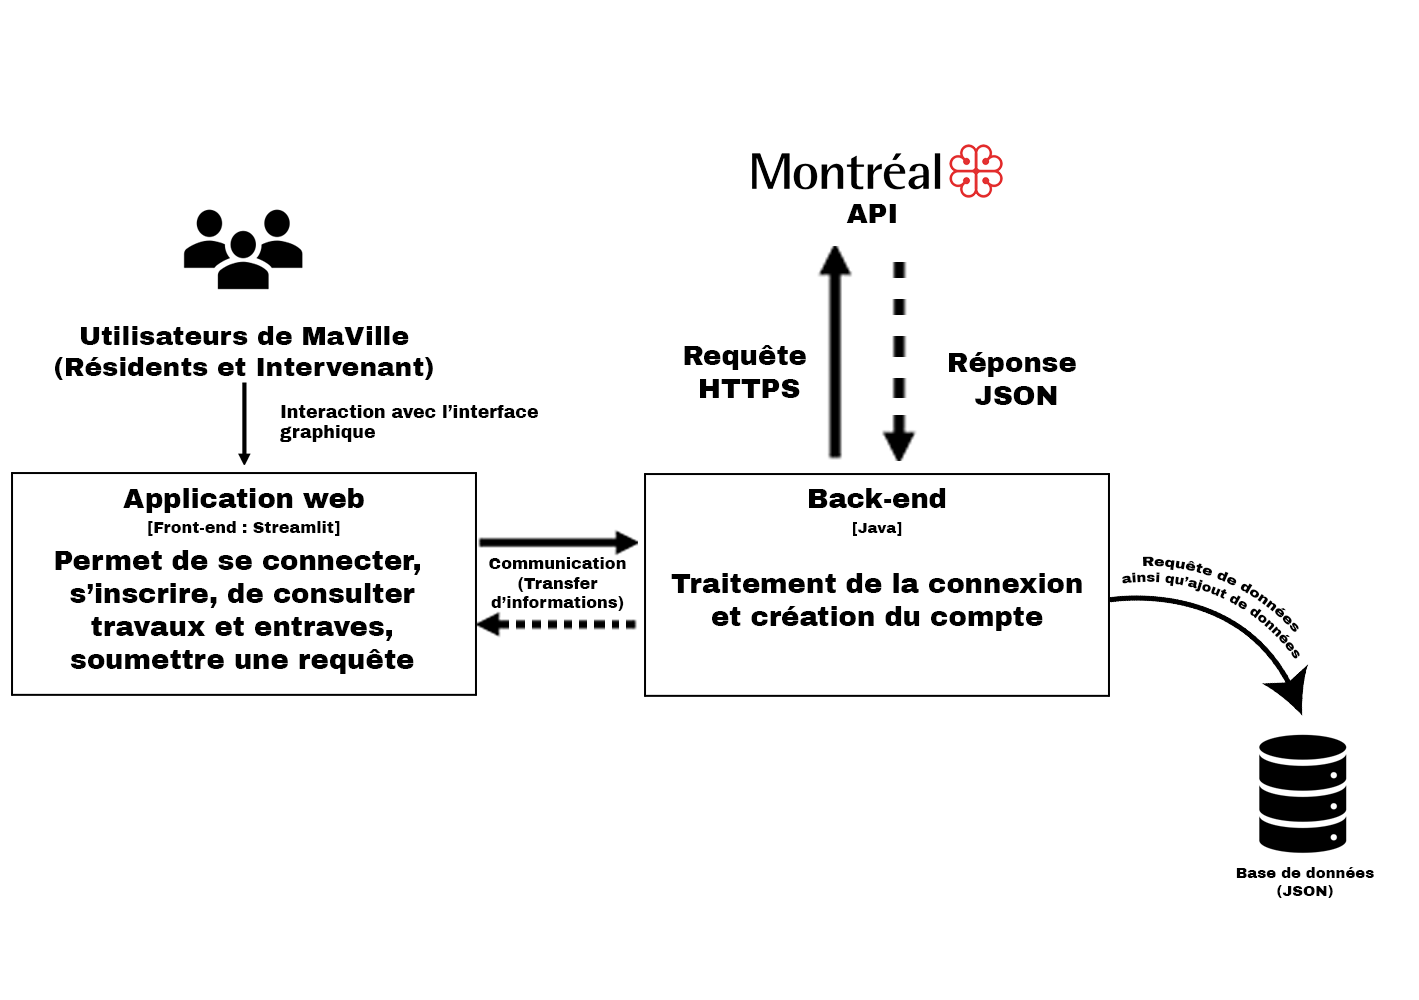
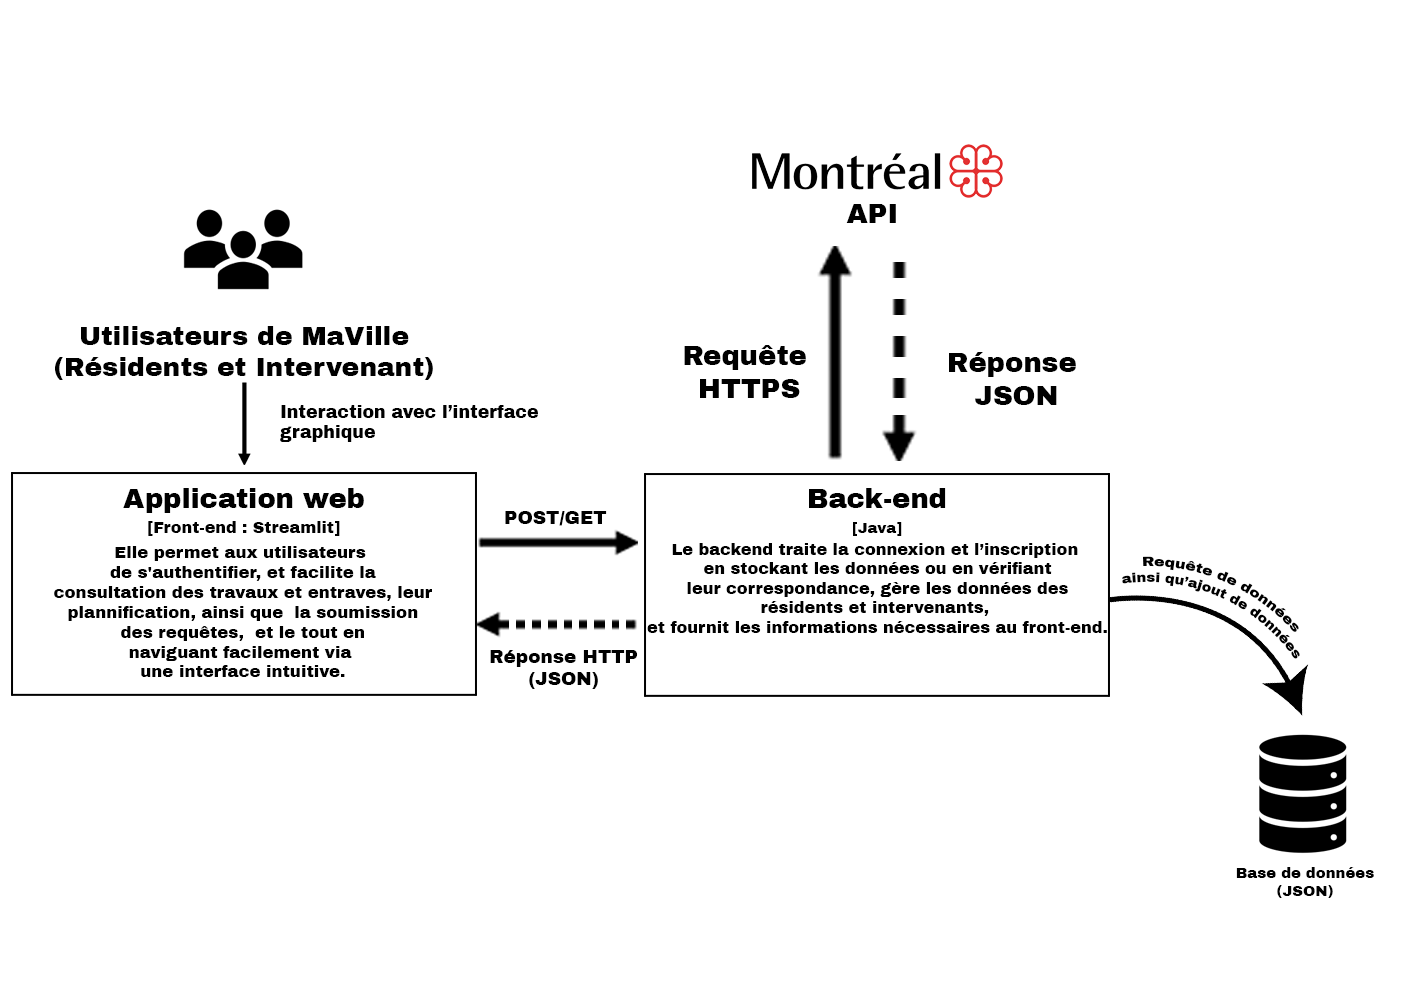
template updated

diff --git a/template.html b/template.html
@@ -532,7 +532,9 @@
         .glossary {
             font-size: 1.4em;
         }
-
+        img{
+            max-width: 100%;
+        }
         .preview-img {
             display: block;
             width: 600px;
@@ -555,6 +557,12 @@
             min-width: 600px;
             height: 100%;
             width: auto;
+            background-color: #d5d5d5;
+        }
+        .architecture-pic {
+            display: block;
+            height: 50%;
+            width: 80%;
             background-color: #d5d5d5;
         }
 
@@ -604,7 +612,7 @@
                     </div> 
                     <span>Discord: @youssef3344444</span>
                     <a href="mailto:prenom.nom@umontreal.ca">youssef.briki@umontreal.ca</a>
-                    <span class="member-role">Chargé du diagramme d'activite, GitHub et rapport</span>
+                    <span class="member-role">Chargé de l'implémentation et du GitHub</span>
                 </li>
                 <li class="member">
                     <div class="member-identification">
@@ -614,7 +622,7 @@
                     <span>Discord: @royann_
                     </span>
                     <a href="mailto:prenom.nom@umontreal.ca">royann.lee.brady.heriniina@umontreal.ca</a>
-                    <span class="member-role">Chargé de glossaire, scenarios et analyse</span>
+                    <span class="member-role">Chargé du diagramme de classes et révision des diagrammes d'activités</span>
                 </li>
                 <li class="member">
                     <div class="member-identification">
@@ -623,7 +631,7 @@
                     </div> 
                     <span>Discord: @jxlxl</span>
                     <a href="mailto:prenom.nom@umontreal.ca">mohamed.jalal.fatouaki@umontreal.ca</a>
-                    <span class="member-role">Chargé de cas d’utilisation et le prototype</span>
+                    <span class="member-role">Chargé des diagrammes de séquence, de la révision des cas d’utilisation, de l'architecture et du rapport</span>
                 </li>
             </ul>
         </div>
@@ -657,6 +665,15 @@
                             <li class="dash">Besoins matériels</li>
                             <li class="dash">Stockage</li>
                             <li class="dash">Intégration</li>
+                        </ul>
+                    </li>
+                    <li class="nav-item">
+                        <h3 class="nav-item-title"><a class="nav-item-title__link" href="#conception">Conception</a> </h3>
+                        <ul class="bare-list nav-item-details">
+                            <li class="dash">Architecture</li>
+                            <li class="dash">Diagramme de classes</li>
+                            <li class="dash">Diagrammes de séquence</li>
+                            <li class="dash">Choix du design</li>
                         </ul>
                     </li>
                     <li class="nav-item">
@@ -798,13 +815,13 @@
                 </ul>
                 <h3 class="subsection-title">Cas d'utilisation</h3>
                 <div class="use-case">
-                    <img class="use-case-diagram" src="Diagrammes/Use_Case_Diagram1.svg" alt="Diagramme de cas d'utilisation">
+                    <img class="use-case-diagram" src="Diagrammes/MaVille CU UPDATED.svg" alt="Diagramme de cas d'utilisation">
                     <p class="use-case-notes">
                         <em>
                             Notes à propos du diagramme <br>
-                            - Résident (Principal) : Le résident peut consulter les travaux en cours, soumettre des requêtes de travaux, définir ses préférences de notifications et d'horaires, ainsi que signaler des problèmes. <br>
-                            - Intervenant (Principal) : L'intervenant soumet des projets, modifie les informations de ceux-ci, et peut proposer des candidatures pour les requêtes de travaux. <br>
-                            - Administrateur (Secondaire) : L'administrateur vérifie la légitimité des intervenants et traite les problèmes signalés par les résidents. 
+                            - Résident : Le résident peut consulter les travaux en cours ou à venir, ainsi que les entraves, soumettre des requêtes de travaux, définir ses préférences de notifications et d'horaires, partager son avis et s'abonner à un projet en cours. <br>
+                            - Intervenant : L'intervenant soumet des projets, modifie les informations de ceux-ci, et peut proposer des candidatures pour les requêtes de travaux après les avoir consulté. <br>
+                            - Ville : La ville vérifie la légitimité des intervenants 
                         </em>
                     </p>
                                     </div>
@@ -2026,26 +2043,42 @@
                 </p>
             </div>
                         </section>
-
+            <section class="main-section">
+                <h2 id="conception" class="section-title">Conception</h2>
+                <h3 class="subsection-title">Architecture</h3>
+                <div class="architecture">
+                    <h4>TBD</h4>
+                    <img class="architecture-pic" src="Diagrammes/2255.png" alt="Architecture de MaVille">
+                </div>
+                <h3 class="subsection-title">Diagramme de Classes</h3>
+                <div class="classes">
+                    <h4>TBD</h4>
+                    <img class="classes-pics" src="Diagrammes/Class Diagram1.svg" alt="Diagramme de classes de MaVille">
+                </div>
+                <h3 class="subsection-title">Diagrammes de séquences</h3>
+                <div class="architecture">
+                    <h4>Consulter les entraves</h4>
+                    <img class="sequences-pics" src="Diagrammes/Entraves.svg" alt="Diagramme de séquence pour consulter les entraves">
+                </div>
+                <div class="architecture">
+                    <h4>Soumettre une requête de travail</h4>
+                    <img class="sequences-pics" src="Diagrammes/Soumettre.svg" alt="Diagramme de séquence pour soumettre une requête de travail">
+                </div>
+                <div class="architecture">
+                    <h4>Consulter la liste des requêtes de travail</h4>
+                    <img class="sequences-pics" src="Diagrammes/Consulter.svg" alt="Diagramme de séquence pour consulter les entraves">
+                </div>
+                <h3 class="subsection-title">Choix de design</h3>
+                <p>TBD</p>
+            </section>
             <section class="main-section">
                 <h2 id="prototype" class="section-title">Prototype</h2>
                 <p>
-                    Les données du résident sont : email: resident1@gmail.com password : maville2024 
-<br>Les données de l'intervenant sont : email : intervenant1@gmail.com password : ameliore2024@<br>
-
+                    À UPDATE !!!!
                     <em>
-                        Pour exécuter le prototype, vous devez l'avoir préalablement cloné localement sur votre machine. 
-                        Si ce n'est pas le cas, vous pouvez cloner le dépôt GitHub en utilisant l'une des deux commandes suivantes :<br><br>
+                        update
+                        <code>update</code><br>
                         
-                        <code>git clone https://github.com/youssefbriki1/ift2255-devoir1-groupe2.git</code><br>
-                        ou<br>
-                        <code>git clone git@github.com:youssefbriki1/ift2255-devoir1-groupe2.git</code><br><br>
-                        
-                        Ensuite, naviguez jusqu'au répertoire où le code est stocké :<br>
-                        <code>cd prototypes</code><br><br>
-                        
-                        Pour exécuter le projet, utilisez la commande suivante :<br>
-                        <code>java -jar main.jar</code>
                     </em>
                 </p>
                 
@@ -2054,7 +2087,7 @@
     </main>
     <footer class="report-footer">
         <p>
-            Devoir 1 &ndash; Analyse des exigences<br>
+            Devoir 2 &ndash; Conception de la solution<br>
             IFT2255 (Génie logiciel) <br>
             Automne 2024
         </p>
